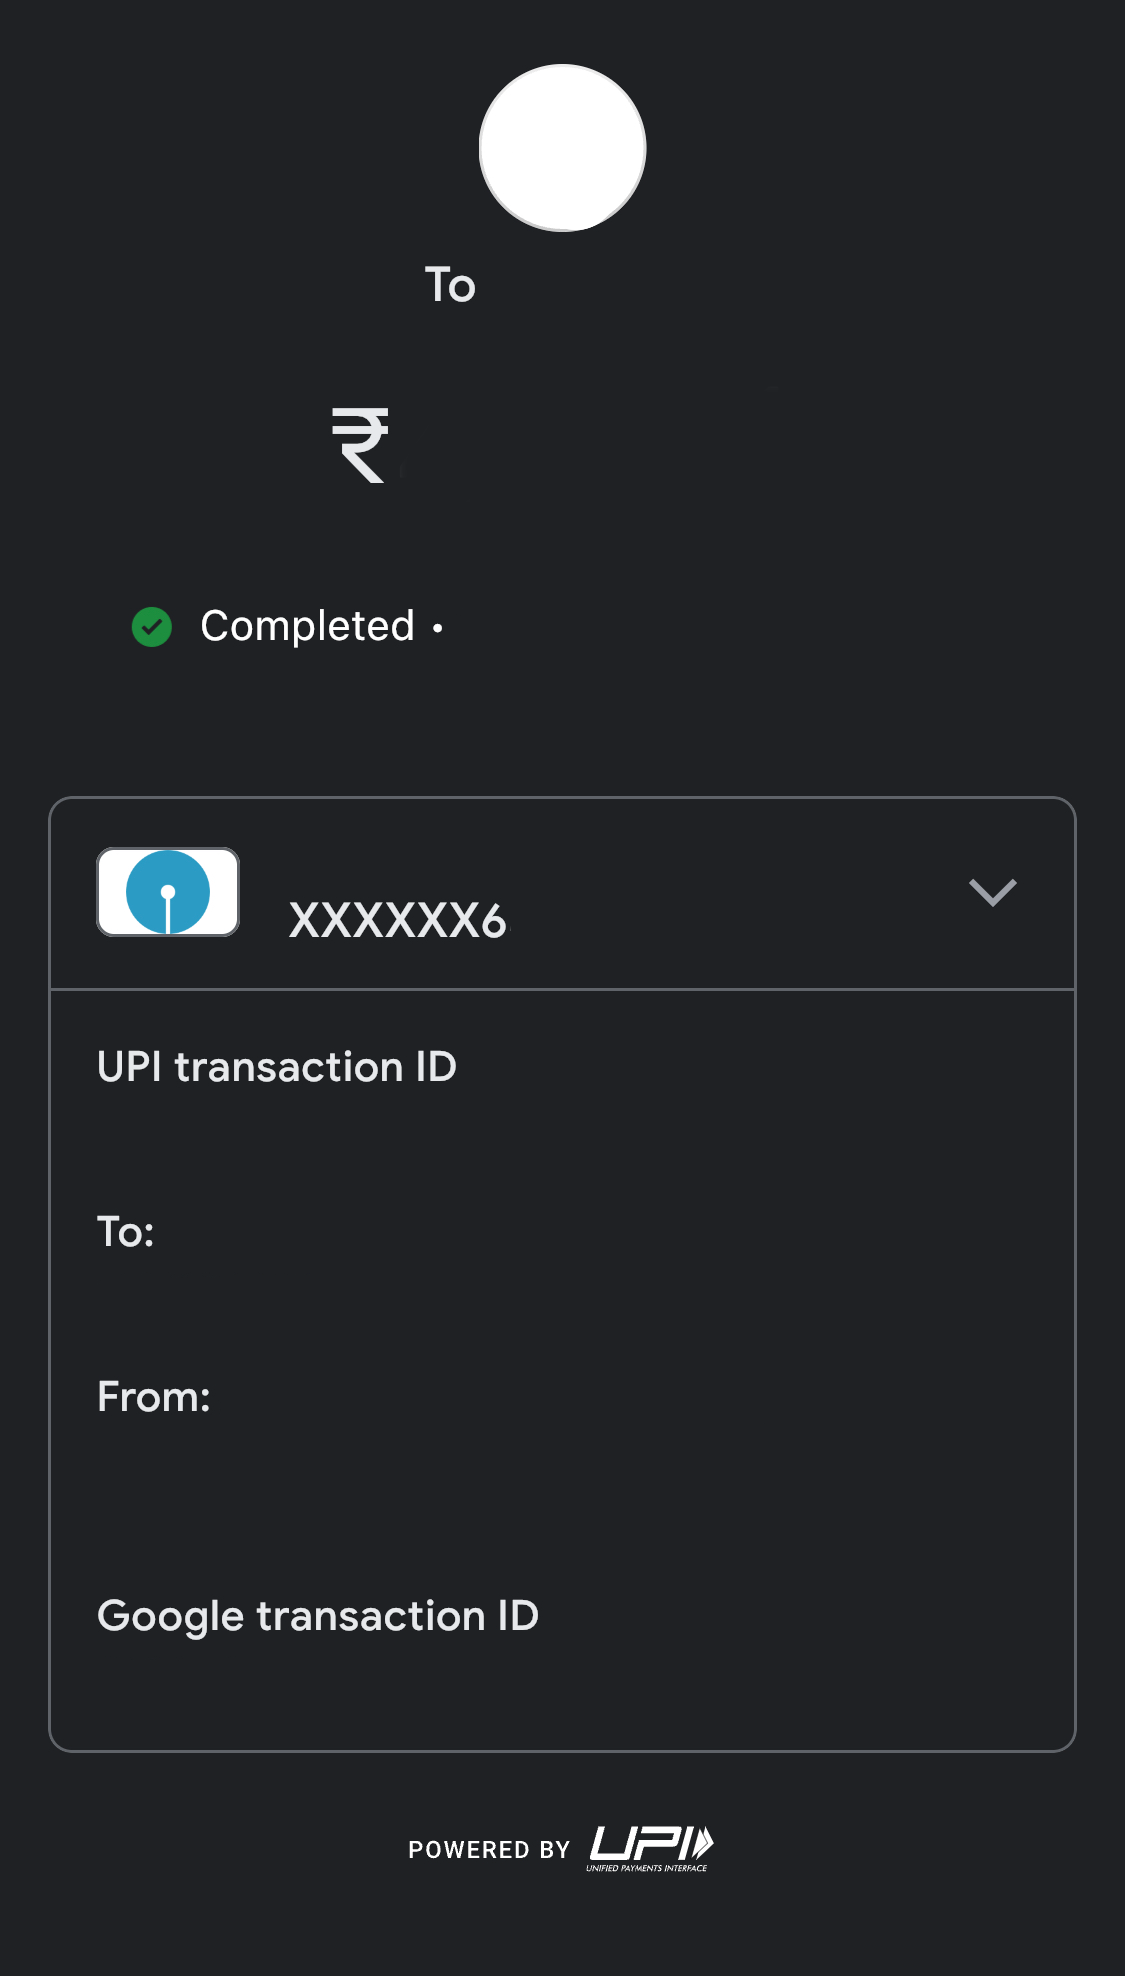
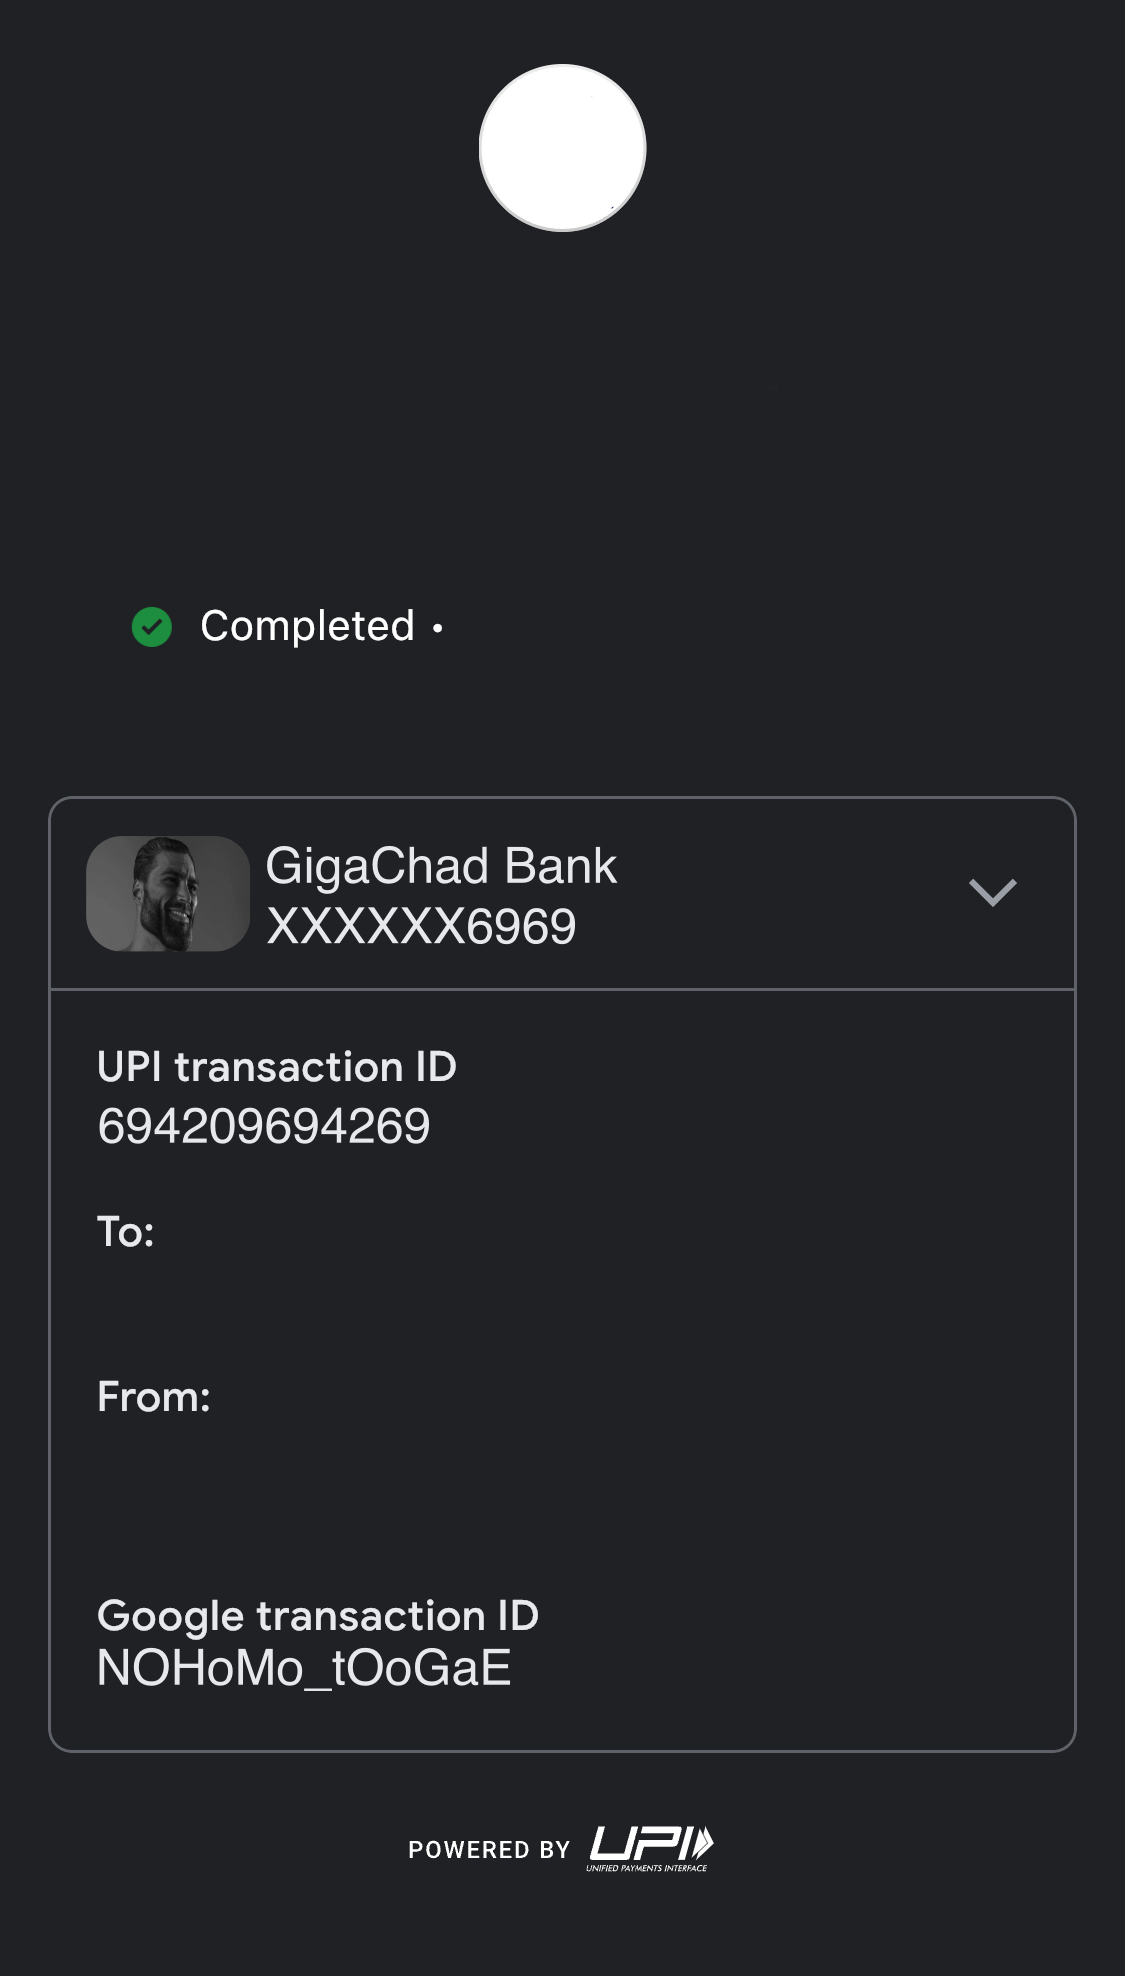
Completed Gpay

diff --git a/Modules/Gpay/gpay.py b/Modules/Gpay/gpay.py
@@ -2,21 +2,72 @@
 from PIL import Image
 from PIL import ImageDraw
 from PIL import ImageFont
- 
-# Open an Image
-img = Image.open(open('gpay.png', 'rb'))
- 
-# Call draw Method to add 2D graphics in an image
-I1 = ImageDraw.Draw(img)
- 
-# Custom font style and font size
-myFont = ImageFont.truetype('../../Utils/Fonts/Helvetica-Bold.ttf', 65)
- 
-# Add Text to an image
-I1.text((10, 10), "Nice Car", font=myFont, fill =(255, 0, 0))
- 
-# Display edited image
-img.show()
- 
-# Save the edited image
-img.save("car2.png")
+from datetime import datetime
+
+import glob
+
+class Gpay:
+    def __init__(self):
+        
+        # Custom font style and font size
+        self.myFont45 = ImageFont.truetype('Utils/Fonts/Helvetica.ttf', 45)
+        self.myFont47 = ImageFont.truetype('Utils/Fonts/Helvetica.ttf', 47)
+        self.myFont80 = ImageFont.truetype('Utils/Fonts/Helvetica.ttf', 150)
+    
+    def parse(self, message):
+        # Open an Image
+        self.img = Image.open("Modules/Gpay/gpay.png")
+        
+        # Call draw Method to add 2D graphics in an image
+        self.I1 = ImageDraw.Draw(self.img)
+
+        content = message.content
+        params = content.split(' ')
+        if len(params) < 3:
+            return "'$gpay' requires 2 parameters.\nExample: '$gpay <user> <amount>'"
+        if len(params) > 3:
+            return "Too many parameters bro"
+        if not message.mentions:
+            return "You haven't mentioned anyone bro"
+        if message.mentions[0].id == message.author.id:
+            return "You cannot send money to yourself bro"
+        if not params[2].isdigit():
+            return "You have to enter a valid amount bro"
+        
+        receiver = message.mentions[0]
+        amount = int(params[2])
+
+        if amount > 999999:
+            return "You cannot send more than ₹999999 bro"
+
+        receiver_name = receiver.name
+        receiver_nickname = receiver.display_name
+        author = message.author
+        author_name = author.name
+        author_nickname = author.display_name
+        # # Pfp
+        # self.img.paste(Image.open(open("Temp/gpay_receiver.png", 'rb')), (20, 500))
+        # Receiver
+        self.I1.text((500-len(str(amount))*10, 265), f'To {receiver_name}', font=self.myFont47, fill =(255, 255, 255))
+
+        #Cost
+        self.I1.text((430-len(str(amount))*20, 380), "₹{:,}".format(amount), font=self.myFont80, fill =(255, 255, 255))
+
+        # Date time "March 20, 2022 at 7:33 PM"
+        self.I1.text((457, 606), datetime.now().strftime("%B %d, %Y at %I:%M %p"), font=self.myFont45, fill =(255, 255, 255))
+
+        # To
+        self.I1.text((171, 1210), receiver_name, font=self.myFont47, fill =(255, 255, 255))
+
+        #ToUPI
+        self.I1.text((98, 1275), f"{receiver_nickname.replace(' ', '')}@gigachad", font=self.myFont47, fill =(255, 255, 255))
+
+        # From
+        self.I1.text((222, 1375), author_name, font=self.myFont47, fill =(255, 255, 255))
+
+        #FromUPI
+        self.I1.text((98, 1440), f"{author_nickname.replace(' ', '')}@gigachad", font=self.myFont47, fill =(255, 255, 255))
+
+        # Save the edited image
+        self.img.save("Temp/gpay_edited.png")
+

diff --git a/main.py b/main.py
@@ -8,6 +8,7 @@ from Modules.CodeRunner.coderunner import CodeRunner
 from Modules.QuizColab.quizcolab import QuizColab
 from Modules.Replier.replier import Replier
 from Modules.Reddit.reddit import Reddit
+from Modules.Gpay.gpay import Gpay
 from Utils.dice import Dice, BooleanDice, ReplyDice
 from Modules.Snipe.snipe import Snipe
 
@@ -21,6 +22,7 @@ try:
 except Exception as e:
     print(e)
 snipe = Snipe()
+gpay = Gpay()
 
 probability_reaction = 25
 dice_reaction = BooleanDice(probability_reaction)
@@ -46,6 +48,12 @@ async def on_message(message):
                 msg = snipe.parse(message)
             elif message.content.startswith('$meme'):
                 msg = reddit.parse(message)
+            elif message.content.startswith('$gpay'):
+                for user in message.mentions:
+                    await user.avatar_url.save("Temp/gpay_receiver.png")
+                msg = gpay.parse(message)
+                
+                # await message.channel.send(file=discord.File('Temp/gpay_edited.png'))
             # if message.content.startswith('$valo'):
             #     msg = Valorant(message).parse()
         else:
@@ -54,7 +62,7 @@ async def on_message(message):
                 await message.add_reaction(emoji)
             msg = Replier().parse(message)
             
-        if msg is not None:
+        if msg and type(msg) is str:
             await message.channel.send(msg)
 
 
